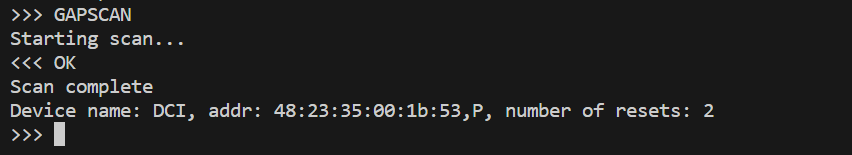
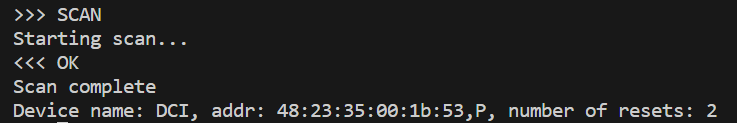
update crash info readme

diff --git a/examples/central/3_central_crash_info/central_crash_info.py b/examples/central/3_central_crash_info/central_crash_info.py
@@ -63,8 +63,8 @@ class CLIHandler():
 
     def start_prompt(self):
         # Accepted commands
-        commands = ['GAPSCAN',
-                    'GETALLRESETDATA',
+        commands = ['SCAN',
+                    'GET_ALL_RESET_DATA',
                     'EXIT']
         commands.sort()
         word_completer = WordCompleter(commands, ignore_case=True)
@@ -198,7 +198,7 @@ class BleController():
         if len(args) > 0:
             ble_func = args[0]
             match ble_func:
-                case 'GAPSCAN':
+                case 'SCAN':
                     # Expected command format: >>>GAPSCAN
                     self.scan_dict: dict[bytes, tuple[str, ble.BleEventGapAdvReport]] = {}
                     self.log("Starting scan...")
@@ -209,7 +209,7 @@ class BleController():
                                                     False,
                                                     True)
 
-                case "GETALLRESETDATA":
+                case "GET_ALL_RESET_DATA":
                     # Expected command format: >>>GETALLRESETDATA 48:23:35:00:1b:53,P
                     if len(args) == 2:
                         periph_bd = ble.BleUtils.str_to_bd_addr(args[1])

diff --git a/examples/central/3_central_crash_info/README.md b/examples/central/3_central_crash_info/README.md
@@ -17,11 +17,11 @@ Here you can enter various commands. The prompt will provide auto-complete for c
 
 ![terminal2](assets/terminal2.png)
 
-For example, to scan for peripheral devices the `GAPSCAN` command can be used. When a command is entered, a response will be immediately returned indicating if the command was processed correctly:
+For example, to scan for peripheral devices the `SCAN` command can be used. When a command is entered, a response will be immediately returned indicating if the command was processed correctly:
 
 ![terminal3](assets/terminal3.png)
 
-Once the command is processed, data from the BLE interaction will be returned. In the case of the `GAPSCAN` command, The name, Bluetooth device address, and number of resets from any peripheral devices advertising the AD Type `Service Data - 128-bit UUID` for the Debug Crash Info service, will be printed to the terminal:
+Once the command is processed, data from the BLE interaction will be returned. In the case of the `SCAN` command, The name, Bluetooth device address, and number of resets from any peripheral devices advertising the AD Type `Service Data - 128-bit UUID` for the Debug Crash Info service, will be printed to the terminal:
 
 ![terminal4](assets/terminal4.png)
 
@@ -29,25 +29,25 @@ Note all data printed to the terminal that is not preceded with `>>>` or `<<<` w
 
 ## Command Usage
 
-### GAPSCAN
+### SCAN
 
 Scan for peripheral devices.
 
-`GAPSCAN`
+`SCAN`
 
 The name, Bluetooth device address, and number of resets for any device advertising the AD Type `Service Data - 128-bit UUID` for the Debug Crash Info service will be printed to the terminal
 
 ![terminal4](assets/terminal4.png)
 
-### GETALLRESETDATA
+### GET_ALL_RESET_DATA
 
 Fetch all reset data available from the specified peripheral:
 
-`GETALLRESETDATA <address>`
+`GET_ALL_RESET_DATA <address>`
 
 For example:
 
-`GETALLRESETDATA 48:23:35:00:1b:53,P`
+`GET_ALL_RESET_DATA 48:23:35:00:1b:53,P`
 
 When the procedure is complete, the reset data will be printed to the terminal and the application will exit:
 
